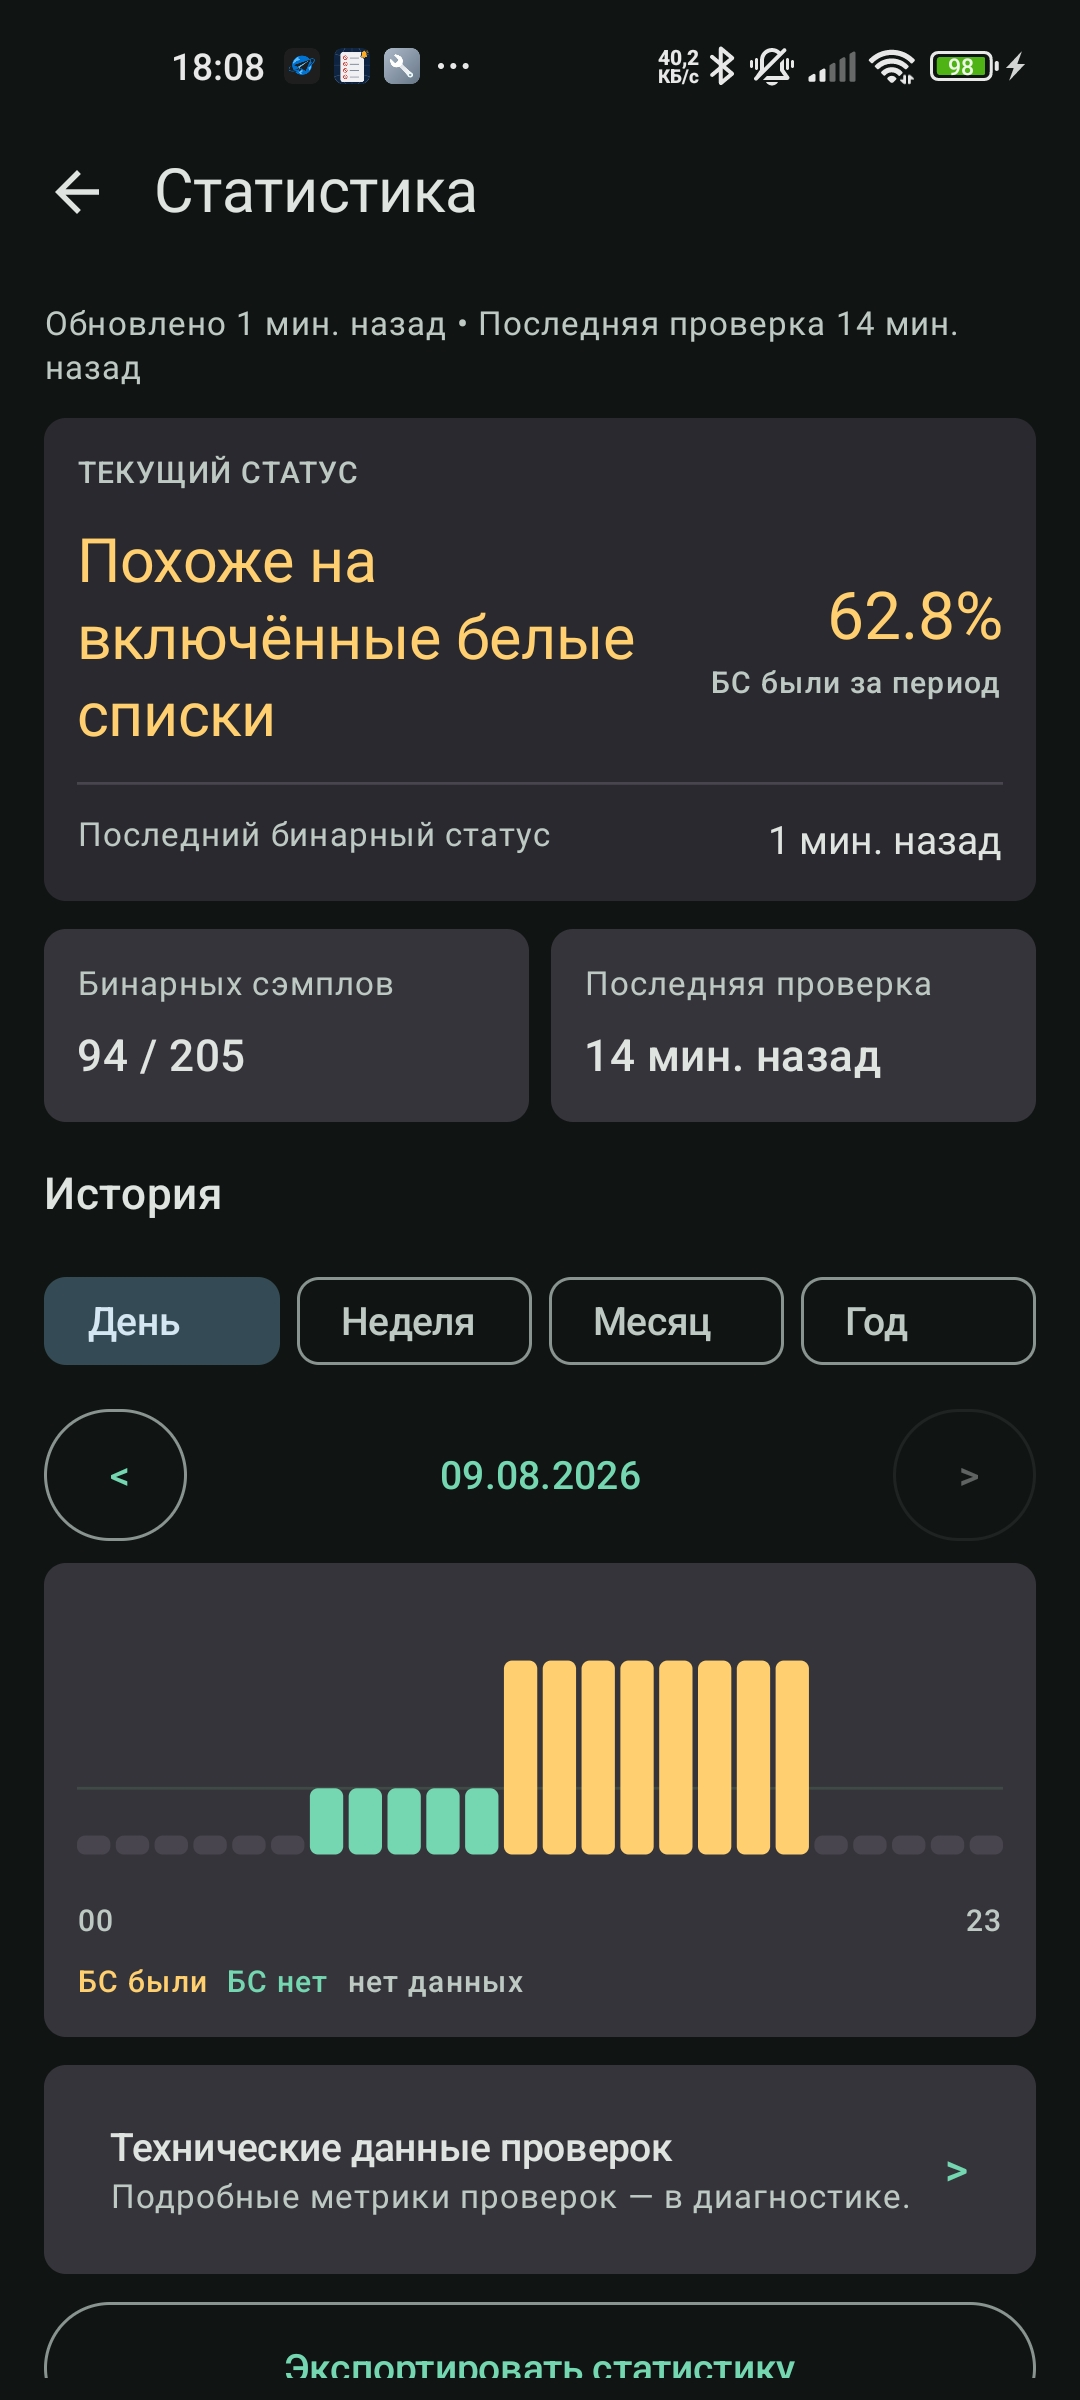
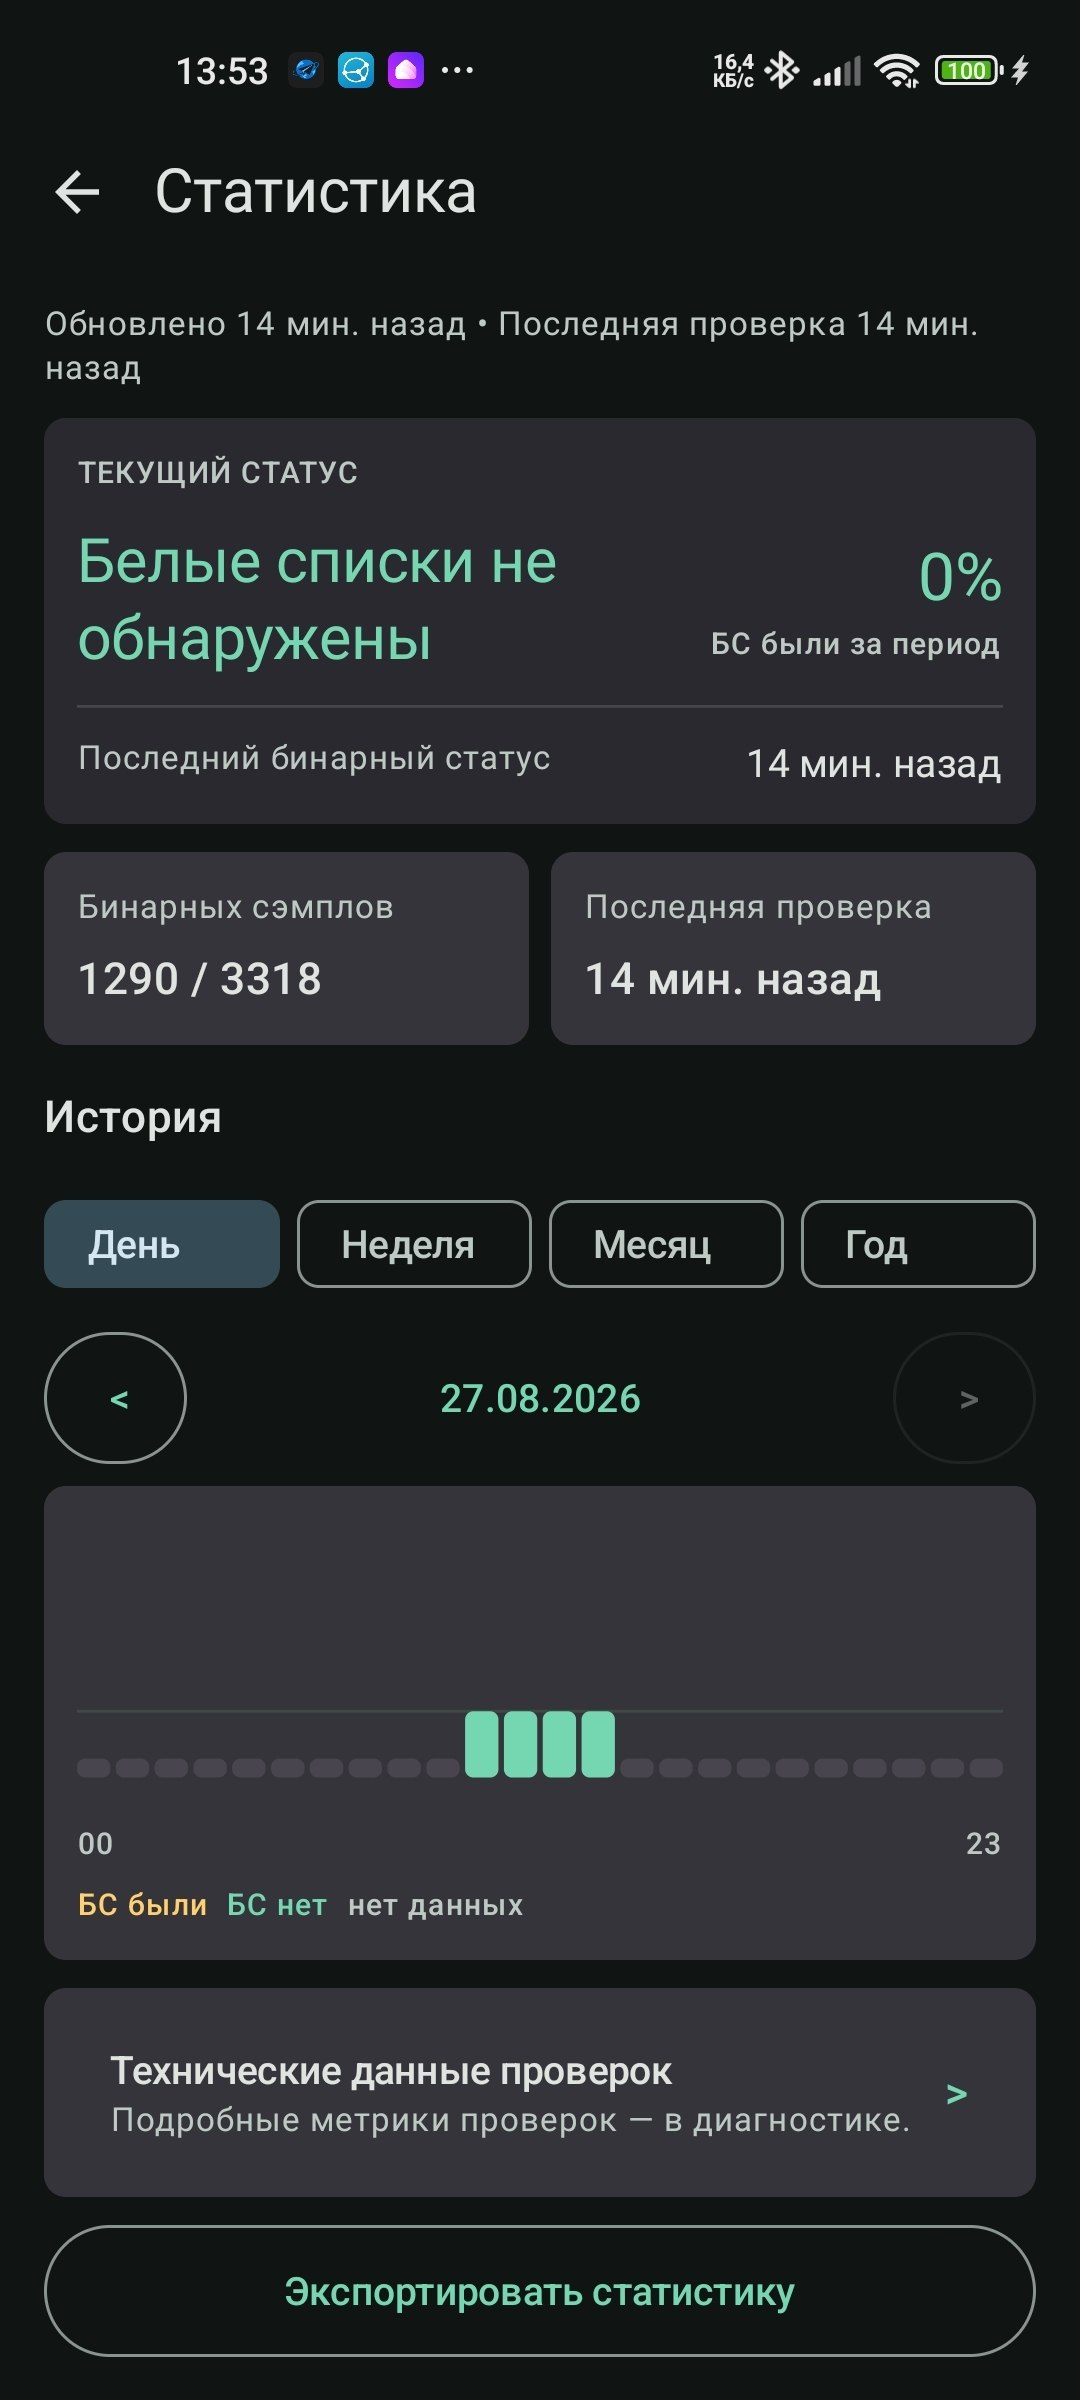
docs: add app screenshots to readme

diff --git a/README_EN.md b/README_EN.md
@@ -10,7 +10,7 @@ Android application for checking cellular-network availability and detecting obs
 [![Android](https://img.shields.io/badge/Android-minSdk%2026-green)](app/build.gradle.kts)
 [![License](https://img.shields.io/badge/License-MIT-lightgrey)](LICENSE)
 
-[Quick start](#quick-start) · [Documentation](#documentation) · [Releases](https://github.com/Regstar2/white-list-checker/releases)
+[Quick start](#quick-start) · [Screenshots](#screenshots) · [Documentation](#documentation) · [Releases](https://github.com/Regstar2/white-list-checker/releases)
 
 </div>
 
@@ -31,6 +31,16 @@ The stable release includes the local-first refactor, Room migration `7 -> 8` wi
 The home screen also reflects the current UI: six primary quick actions form a balanced grid, while About is opened through the compact information icon in the header.
 
 Current stable APK: `WhiteListChecker-v1.0.0-release.apk`. Its checksum is published next to the APK in `SHA256SUMS.txt`.
+
+## Screenshots
+
+| Home | Statistics | Site checks |
+| --- | --- | --- |
+| <img src="docs/assets/screenshots/home.jpg" width="220" alt="WhiteListChecker home screen"> | <img src="docs/assets/screenshots/statistics.jpg" width="220" alt="WhiteListChecker statistics screen"> | <img src="docs/assets/screenshots/check-sites.jpg" width="220" alt="Site check settings"> |
+| DNS settings | Background checks | Active monitoring |
+| <img src="docs/assets/screenshots/check-dns.jpg" width="220" alt="DNS resolver settings"> | <img src="docs/assets/screenshots/background-checks.jpg" width="220" alt="Background check settings"> | <img src="docs/assets/screenshots/active-monitoring.jpg" width="220" alt="Active monitoring settings"> |
+| Local notifications |  |  |
+| <img src="docs/assets/screenshots/local-notifications.jpg" width="220" alt="Local notification settings"> |  |  |
 
 ## Features
 
